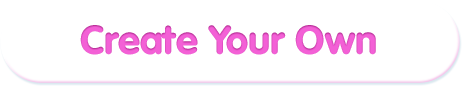
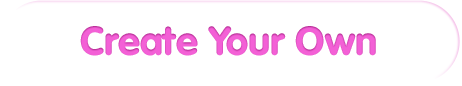
adding bg images

diff --git a/docroot/css/app.css b/docroot/css/app.css
@@ -209,7 +209,8 @@ nav.share, nav.visit {
     border: none;
     margin-top: 40px; }
     #big-show button:active {
-      background: url("../img/big_show/create-your-own-active@2x.png") no-repeat; }
+      background: url("../img/big_show/create-your-own-active@2x.png") no-repeat;
+      background-size: 100%; }
 
 main#landing {
   width: 90vw;

diff --git a/docroot/sass/_big-show.scss b/docroot/sass/_big-show.scss
@@ -57,6 +57,7 @@
 
 		&:active {
 			background: url("../img/big_show/create-your-own-active@2x.png") no-repeat;
+			background-size: 100%;
 		}
 	}
 }
